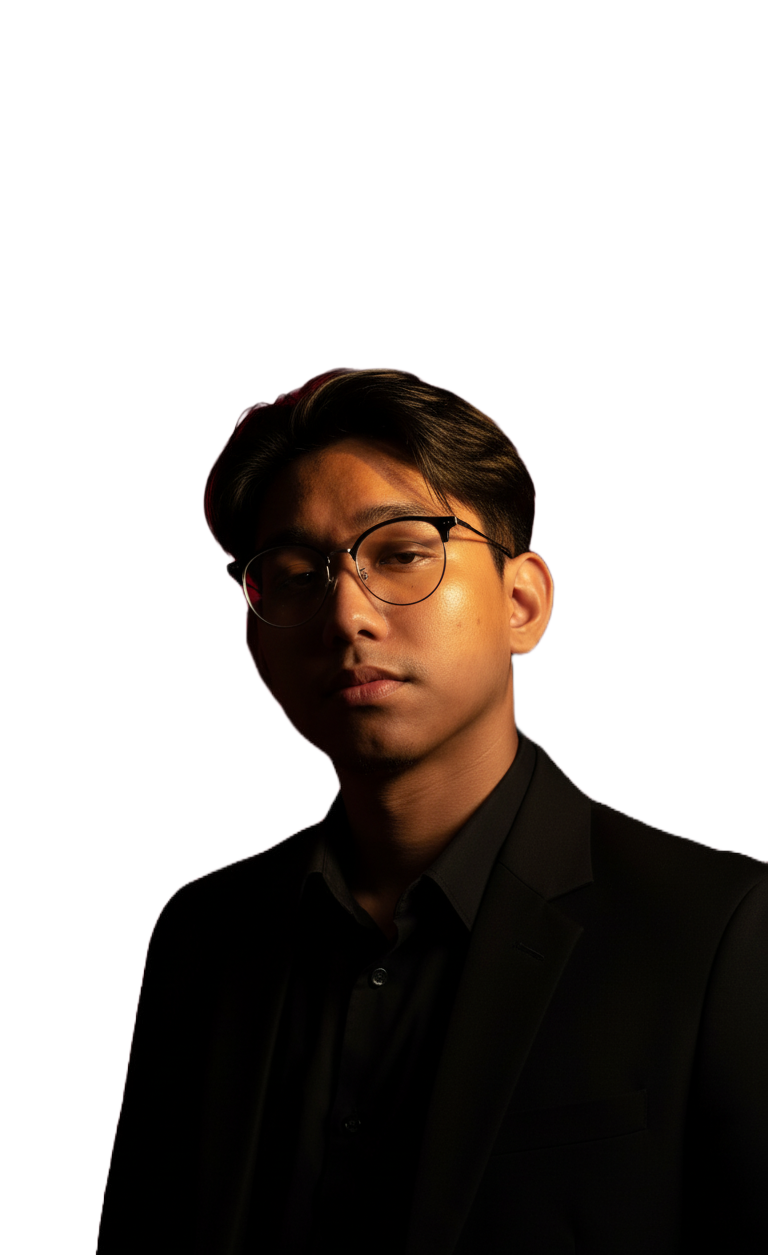
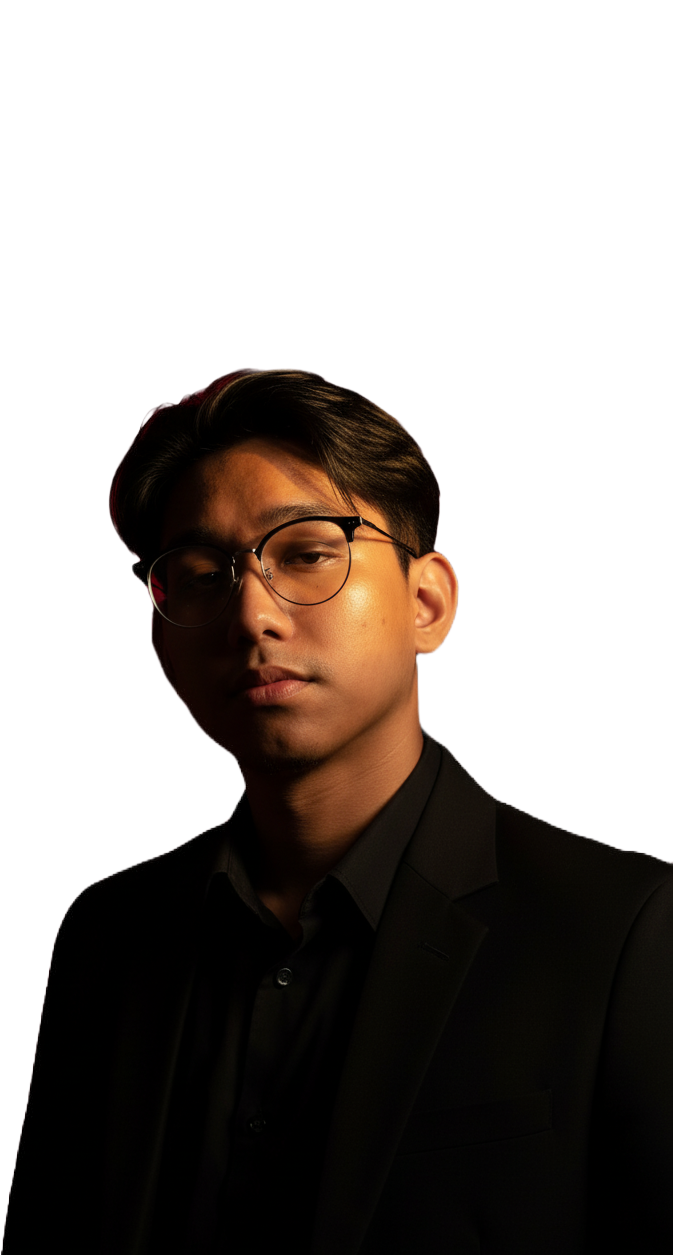
added profile pic and bg effect

diff --git a/src/components/ui/shadcn-io/vortex/index.tsx b/src/components/ui/shadcn-io/vortex/index.tsx
@@ -18,6 +18,10 @@ interface VortexProps {
   rangeRadius?: number;
   backgroundColor?: string;
   swirlStrength?: number;
+  rangeHue?: number;
+  sparkChance?: number;
+  sparkHueBase?: number;
+  sparkHueRange?: number;
 }
 
 export const Vortex = (props: VortexProps) => {
@@ -34,7 +38,10 @@ export const Vortex = (props: VortexProps) => {
   const baseRadius = props.baseRadius || 1;
   const rangeRadius = props.rangeRadius || 2;
   const baseHue = props.baseHue || 220;
-  const rangeHue = 0; // keep particles single-hued by default
+  const rangeHue = props.rangeHue ?? 0; // allow hue variation around base
+  const sparkChance = props.sparkChance ?? 0.02;
+  const sparkHueBase = props.sparkHueBase ?? 30; // orange-ish
+  const sparkHueRange = props.sparkHueRange ?? 10;
   // noise and swirl tuning — tweaked for more organic, unpredictable motion
   const noiseSteps = 4;
   const xOff = 0.0012;
@@ -87,15 +94,22 @@ export const Vortex = (props: VortexProps) => {
 
     let x, y, vx, vy, life, ttl, speed, radius, hue;
 
+    // spawn horizontally across entire canvas; vertically either across full height
+    // or within a centered range if `rangeY` prop is explicitly provided
     x = rand(canvas.width);
-    y = center[1] + randRange(rangeY);
+    y = props.rangeY !== undefined ? center[1] + randRange(rangeY) : rand(canvas.height);
     vx = 0;
     vy = 0;
     life = 0;
     ttl = baseTTL + rand(rangeTTL);
     speed = baseSpeed + rand(rangeSpeed);
     radius = baseRadius + rand(rangeRadius);
-    hue = baseHue + rand(rangeHue);
+    // occasionally spawn a brighter orange spark; otherwise use base purple variations
+    if (Math.random() < sparkChance) {
+      hue = sparkHueBase + rand(sparkHueRange);
+    } else {
+      hue = baseHue + rand(rangeHue);
+    }
 
     particleProps.set([x, y, vx, vy, life, ttl, speed, radius, hue], i);
   };
@@ -184,7 +198,10 @@ export const Vortex = (props: VortexProps) => {
     ctx.save();
     ctx.lineCap = "round";
     ctx.lineWidth = radius;
-    ctx.strokeStyle = `hsla(${hue},100%,60%,${fadeInOut(life, ttl)})`;
+    // use darker purple for main particles and brighter lightness for sparks (orange hues)
+    const lightness = (hue >= 18 && hue <= 55) ? 72 : 36;
+    const saturation = (hue >= 18 && hue <= 55) ? 100 : 90;
+    ctx.strokeStyle = `hsla(${hue},${saturation}%,${lightness}%,${fadeInOut(life, ttl)})`;
     ctx.beginPath();
     ctx.moveTo(x, y);
     ctx.lineTo(x2, y2);

diff --git a/src/app/page.tsx b/src/app/page.tsx
@@ -13,14 +13,18 @@ export default function Home() {
         <Navbar />
         <PageVortex />
 
-        <div className="mt-10 md:mt-20 relative z-10 max-w-5xl mx-auto p-6 md:p-12 space-y-24 pt-16">
+        <div className="mt-36 md:mt-20 relative z-10 max-w-5xl mx-auto p-6 md:p-12 space-y-24 pt-20 md:pt-16">
           {/* Header / Hero & About (combined) */}
-          <LiquidSection id="about">
+          <LiquidSection id="about" className="scroll-mt-56 md:scroll-mt-36">
             <div className="relative">
+              {/* Mobile-only Profile Image (centered, half-bleed above container) */}
+              <div className="absolute left-4/9 -translate-x-1/2 -top-71 w-[min(260px,80vw)] max-w-full block md:hidden pointer-events-none z-20">
+                <Image src="/profilepic.png" alt="Mohd Hafiz Jumahiddin" width={400} height={480} className="w-full h-auto object-contain drop-shadow-2xl rounded-br-3xl" priority />
+              </div>
               <div className="relative z-30 space-y-8 md:space-y-12">
                 <div className="relative">
                   <div className="space-y-2 relative z-10">
-                    <h1 className="text-4xl font-bold text-center md:text-left tracking-wide sm:text-5xl md:text-6xl md:whitespace-nowrap bg-linear-to-r from-zinc-900 to-purple-700 bg-clip-text text-transparent drop-shadow-[0_0_15px_rgba(168,85,247,0.5)] dark:from-white dark:to-purple-200">
+                    <h1 className="float-animation text-4xl font-bold text-center md:text-left tracking-wide sm:text-5xl md:text-6xl md:whitespace-nowrap bg-linear-to-r from-zinc-900 to-purple-700 bg-clip-text text-transparent drop-shadow-[0_0_15px_rgba(168,85,247,0.5)] dark:from-white dark:to-purple-200">
                       Mohd Hafiz Jumahiddin
                     </h1>
                     <div className="md:max-w-[60%] space-y-2">

diff --git a/src/components/PageVortex.tsx b/src/components/PageVortex.tsx
@@ -11,8 +11,12 @@ export default function PageVortex() {
     if (resolvedTheme === "dark") {
       return {
         backgroundColor: "transparent",
-        particleCount: 600,
-        baseHue: 275,
+        particleCount: 400,
+        baseHue: 268,
+        rangeHue: 12,
+        sparkChance: 0.05,
+        sparkHueBase: 28,
+        sparkHueRange: 8,
         baseSpeed: 0.0,
         rangeSpeed: 1.2,
       };
@@ -21,8 +25,12 @@ export default function PageVortex() {
     // light theme
     return {
       backgroundColor: "transparent",
-      particleCount: 600,
-      baseHue: 275,
+      particleCount: 400,
+      baseHue: 268,
+      rangeHue: 12,
+      sparkChance: 0.05,
+      sparkHueBase: 28,
+      sparkHueRange: 8,
       baseSpeed: 0.0,
       rangeSpeed: 1.0,
     };
